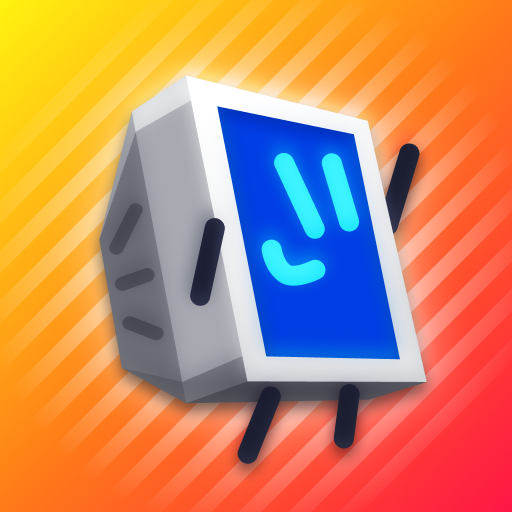
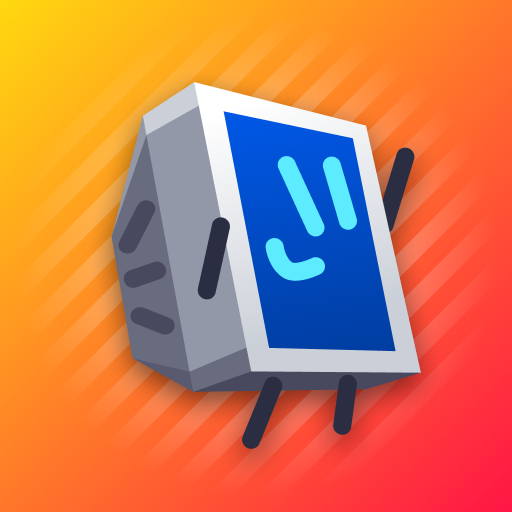
SyrupBg
SyrupBg added instead of blue, new hero image, new (less bloomy) pcboy5 icon

diff --git a/style.css b/style.css
@@ -1,8 +1,12 @@
 /* Whole page, and main stuff */
 :root {
     --primary: #4951FF;
-    --link: #25A8FF;
+    --link: #3abaff;
     --background: #12162A;
+    --SyrupBg1: #2C2340;
+    --SyrupBg2: #092B41;
+    --SyrupBg3: #132F21;
+    --SyrupBgM: #0087D019;
 }
 * {
     border-radius: 20px;
@@ -12,11 +16,12 @@
 }
 body {
     margin: 0px;
-    background: var(--background);
+    /* background: var(--background); */
+    background: linear-gradient(135deg, var(--SyrupBg1), var(--SyrupBg2), var(--SyrupBg3));
     font-family: 'Roboto', sans-serif;
     color: white;
 }
-header, footer, section {
+header, section {
     max-width: 1280px;
     margin: 0 auto;
     padding: 15px 30px;
@@ -34,8 +39,8 @@ p {
     height: 700px;
     border-radius: 700px;
 
-    background-color: #22274B;
-    filter: blur(320px);
+    background-color: var(--SyrupBgM);
+    filter: blur(350px);
 
     position: fixed;
     z-index: -50;
@@ -155,14 +160,18 @@ header {
     padding: 0;
     margin: 5px;
     border-radius: 0;
+    user-select: none;
 }
 
 /* Footer */
 footer { 
     padding: 30px 30px;
-    background: linear-gradient(90deg, #0000, #4951FF44 20%, #4951FF44 80%, #0000);
+    /* background: linear-gradient(90deg, #0000, #4951FF44 20%, #4951FF44 80%, #0000); */
+    background: #0006;
     border-radius: 0;
     margin-top: 60px;
+
+    padding: 30px calc(50vw - 640px) 30px;
 }
 footer h1 {
     margin-top: 0;
